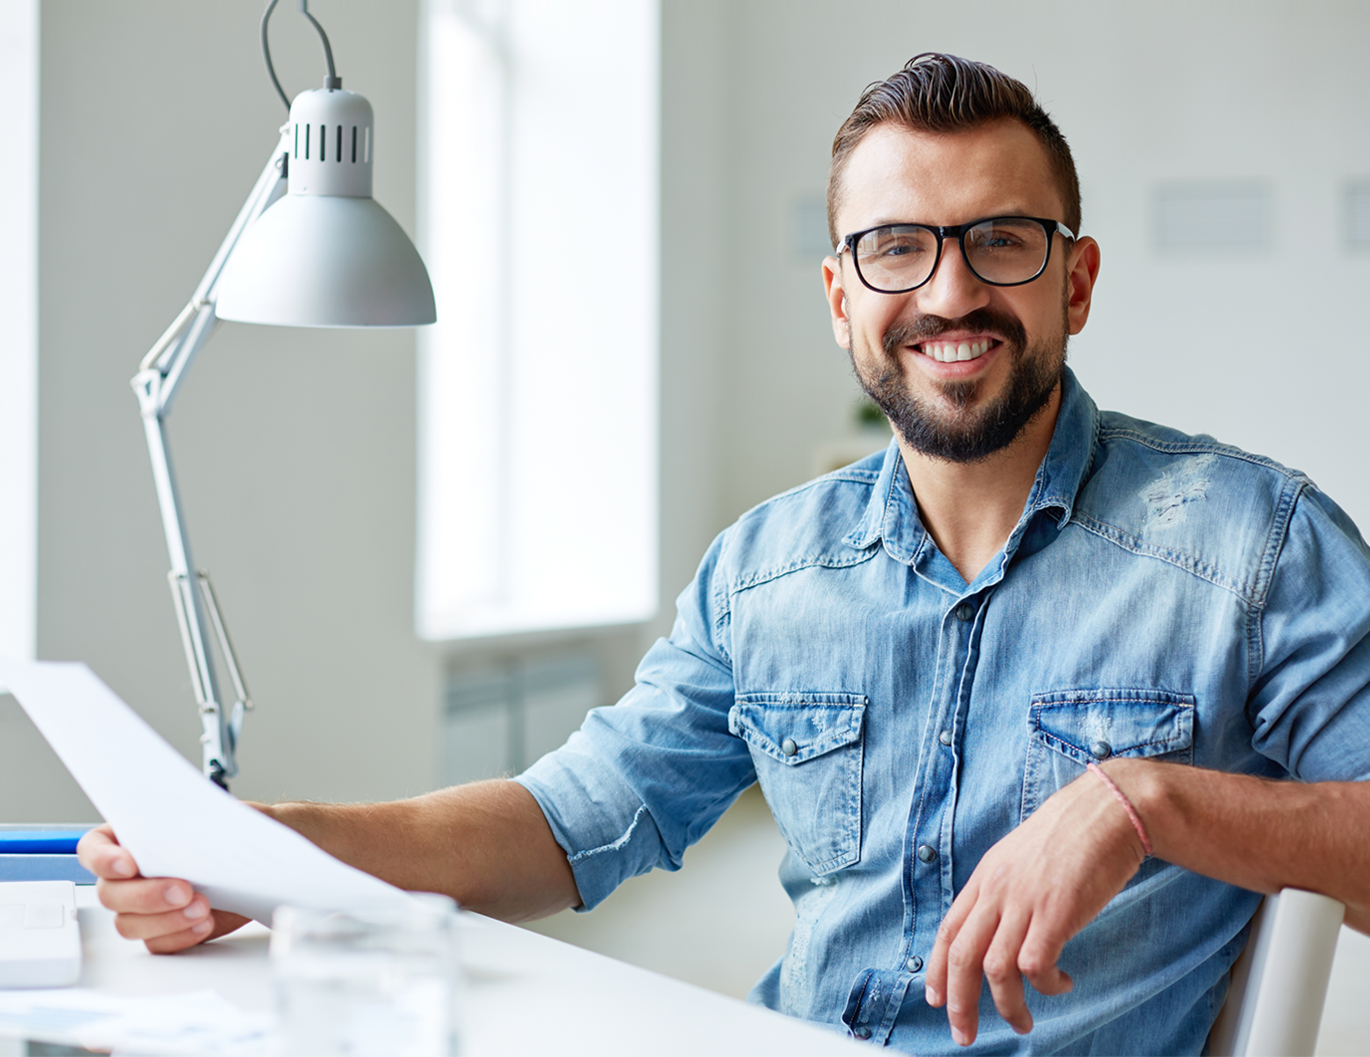
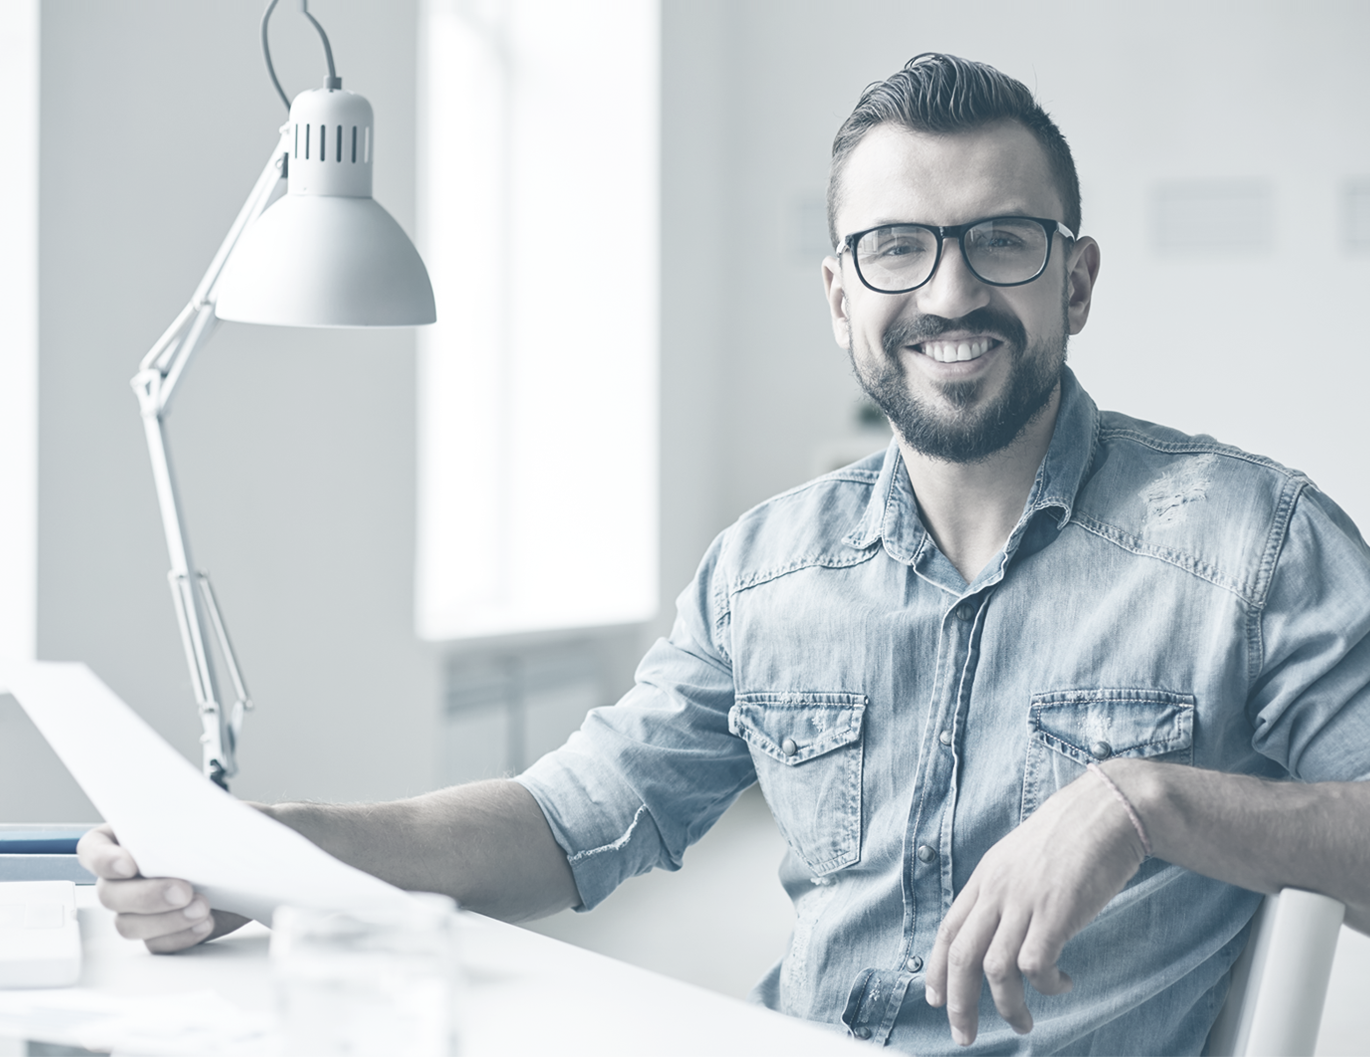
Header

diff --git a/index.html b/index.html
@@ -4,9 +4,29 @@
     <meta charset="UTF-8">
     <meta name="viewport" content="width=device-width, initial-scale=1.0">
     <meta http-equiv="X-UA-Compatible" content="ie=edge">
-    <title>Document</title>
+    <link href="css/normalize.css" rel="stylesheet">
+    <link href="css/style.css" rel="stylesheet">
+    <link href="https://fonts.googleapis.com/css?family=Montserrat:500,600&display=swap&subset=cyrillic,cyrillic-ext,latin-ext,vietnamese" rel="stylesheet">
+    <title>Freelancer</title>
 </head>
 <body>
-    
+    <div class="main">
+        <div class="main_overlay"></div>
+        <div class="header">
+            <div class="logo">
+                Freelancer.
+            </div>
+            <div class="menu">
+                <ul>
+                    <li><a href="/" class="mune_link">about</a></li>
+                    <li><a href="/" class="mune_link">worck</a></li>
+                    <li><a href="/" class="mune_link">potfolio</a></li>
+                    <li><a href="/" class="mune_link">contact</a></li>
+                    <li><a href="/" class="twitt mune_link"><img src="img/twitter_icon.png" alt="twitter"></a></li>
+                    <li><a href="/" class="face mune_link"> <img src="img/facebook_icon.png" alt="facebook"></a></li>
+                </ul>
+            </div>
+        </div>
+    </div>
 </body>
 </html>

diff --git a/css/style.css b/css/style.css
@@ -1,0 +1,64 @@
+
+.main{
+    display: flex;
+    flex-direction: column;
+    justify-content: space-between;
+    align-items: center;
+    height: 100vh;
+    min-height: 500px;
+    background: url(../img/hero_bg.png) no-repeat;
+    background-size: cover;
+    position: relative;
+}
+.main_overlay{
+    position: absolute;
+    left:0;
+    top: 0;
+    width: 100%;
+    height: 100%;
+    z-index: 0;
+}
+.header{ 
+   /* border: 2px solid black;
+    */
+    display: flex;
+    justify-content: space-between;
+    align-items: center;
+    width: 940px;
+    position: relative;
+    z-index: 2;
+}
+.menu{
+    width: 460px;
+}
+.menu ul{
+    display: flex;
+    justify-content: space-between;
+    list-style-type: none; 
+}
+.menu ul a, .dot{
+    color: #263742;
+    font-size: 12px;
+}
+.mune_link{
+    text-transform: uppercase;
+    text-decoration: none;
+}
+.logo{
+    display: flex;
+    flex-direction: column;
+    justify-content: flex-end;
+    align-items: center;
+    height: 72px;
+    width: 140px;
+    color: white;
+    font-family: Cambria, Cochin, Georgia, Times, 'Times New Roman', serif;
+    font-size: 1.1em;
+    font-weight: 500;
+    padding-bottom: 15px;
+    background-color:#FA5C65;
+    border-radius: 0px 0px 5px 5px;
+}
+.twitt{
+    margin-left: 15px;
+}

diff --git a/css/normalize.css b/css/normalize.css
@@ -1,0 +1,6 @@
+*, *::after{
+    box-sizing: border-box;
+}
+body{
+    margin: 0;
+}
